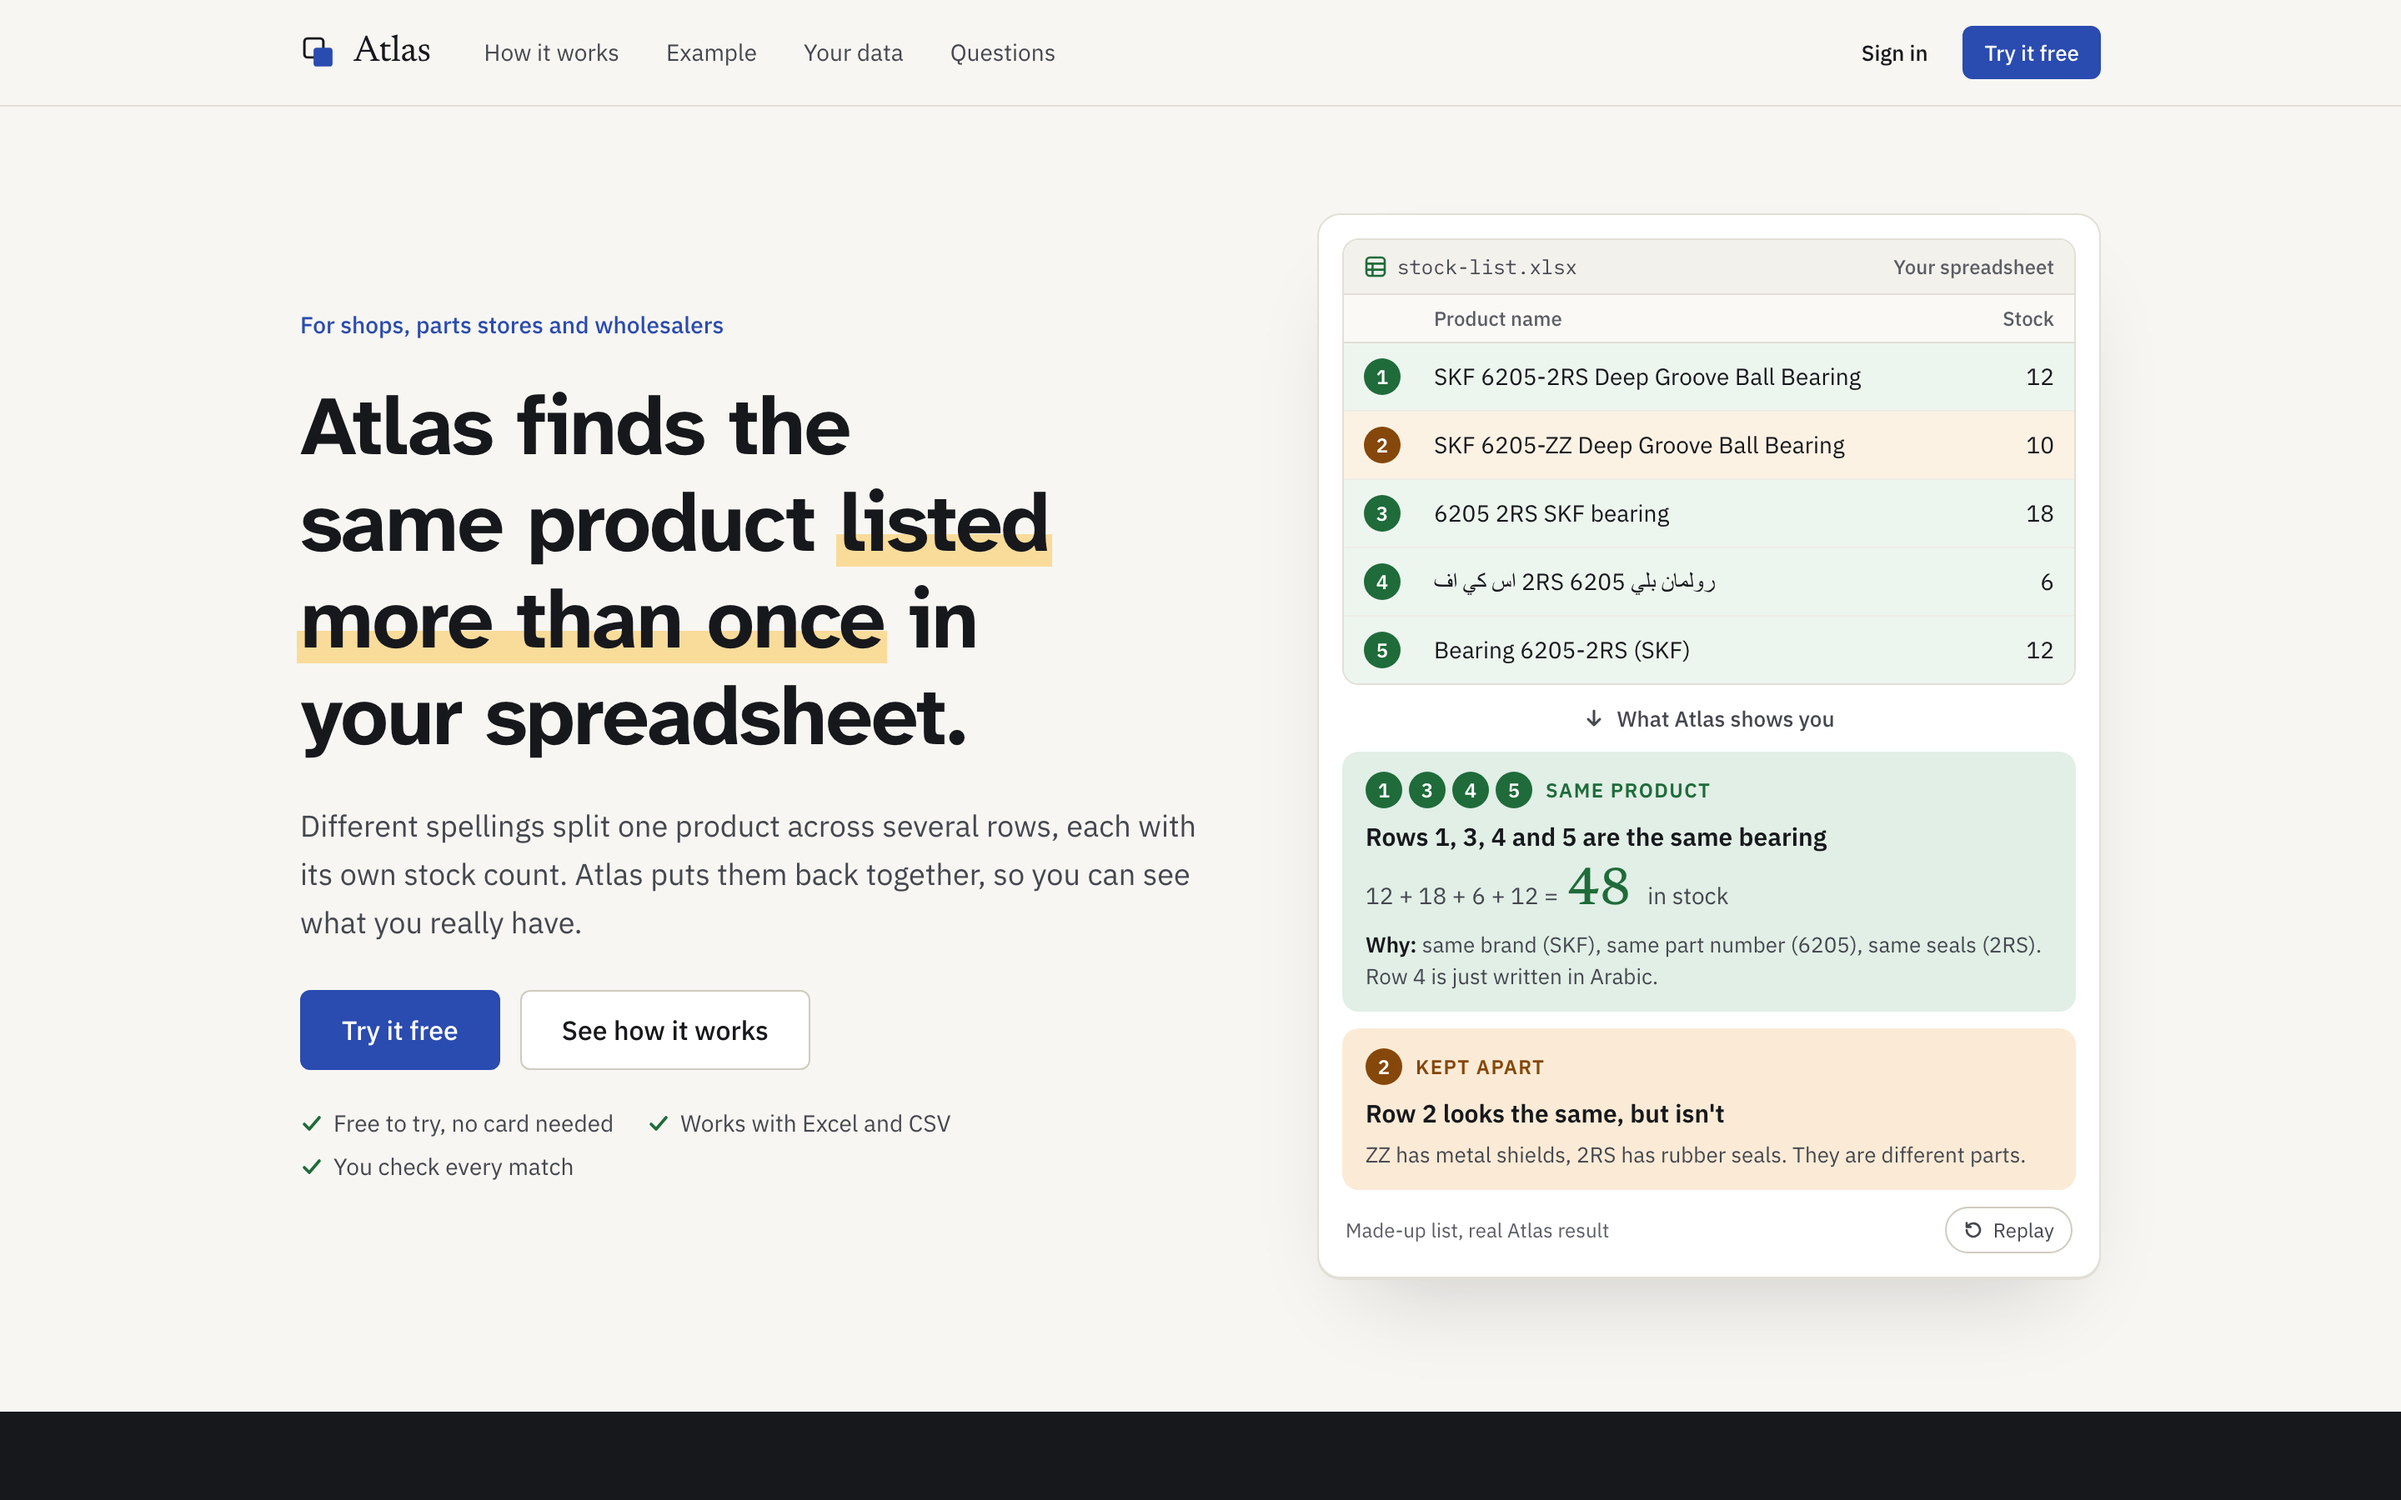
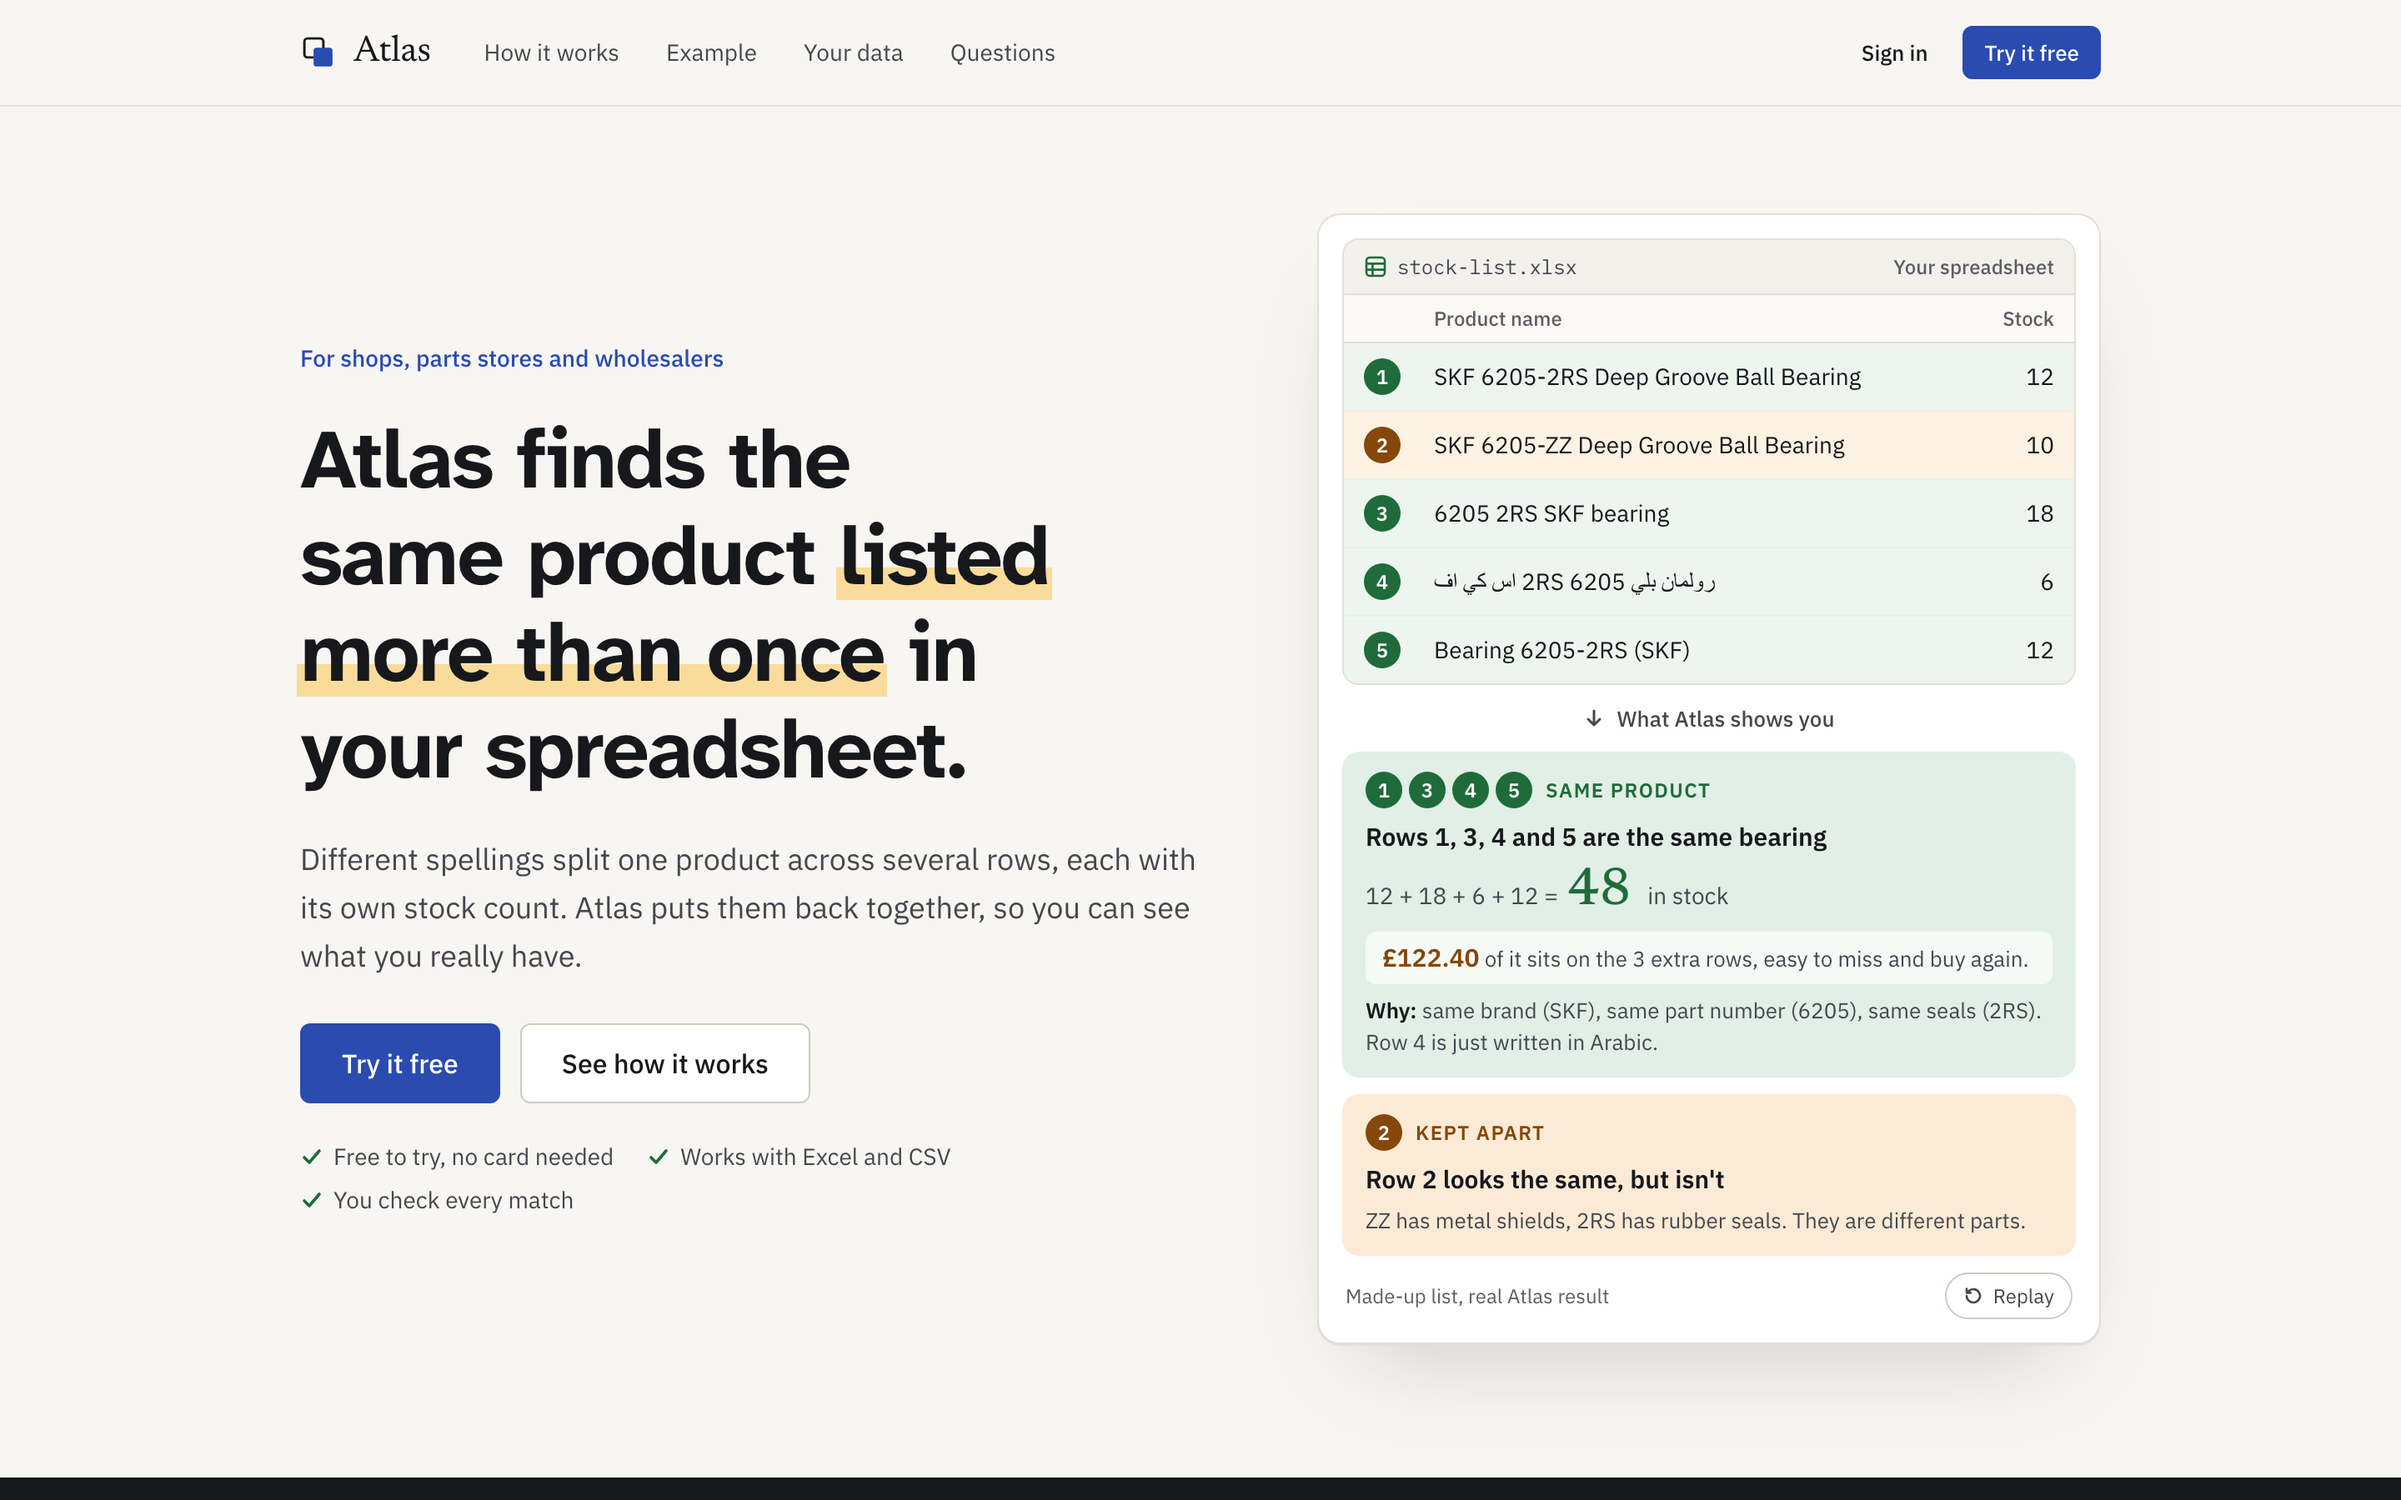
Show the money on the landing page
- The opening example now says what the duplicate stock is worth:
  "£122.40 of it sits on the 3 extra rows, easy to miss and buy again",
  the same measure Atlas reports for a real file.
- A "What could it be costing you?" estimator in the costs section:
  products, stock value and share of duplicate rows give a rough
  figure, with the working shown and a cautious 5% default.
- Clearer money wording in the full example and the closing line.

diff --git a/web/app/globals.css b/web/app/globals.css
@@ -243,7 +243,7 @@ table.grid .right { text-align: right; }
 /* The example beside the headline. The markup is the finished result; the
    animations (all under .aha-play) start from "before" and end on it, so
    reduced motion simply switches them off. Timeline: rows scanned 0.5s,
-   rows marked 1.6s, first answer 2.3s, second answer 3.3s. */
+   rows marked 1.6s, first answer 2.3s, its money 3.1s, second answer 3.6s. */
 @property --aha-n { syntax: "<integer>"; inherits: false; initial-value: 0; }
 
 .aha {
@@ -297,6 +297,8 @@ table.grid .right { text-align: right; }
   font-family: var(--font-serif), Georgia, serif; font-size: 32px; line-height: 36px; font-weight: 500; color: var(--ok);
 }
 .aha-count::after { content: counter(aha-n); }
+.aha-money { margin: 2px 0; padding: 6px 10px; border-radius: 6px; background: rgba(255, 255, 255, 0.65); font-size: 13px; line-height: 19px; color: var(--ink-2); }
+.aha-money strong { font-size: 15px; font-weight: 700; color: var(--warn); }
 .aha-why { font-size: 13px; line-height: 19px; color: var(--ink-2); }
 .aha-why b { color: var(--ink); font-weight: 600; }
 
@@ -316,8 +318,9 @@ table.grid .right { text-align: right; }
 .aha-play .aha-done { animation: aha-appear 0.3s ease 1.6s both; }
 .aha-play .aha-card-same { animation: aha-rise 0.5s cubic-bezier(0.2, 0.7, 0.2, 1) 2.3s both; }
 .aha-play .aha-count { animation: aha-count 0.9s cubic-bezier(0.2, 0.7, 0.2, 1) 2.35s both; }
-.aha-play .aha-card-other { animation: aha-rise 0.5s cubic-bezier(0.2, 0.7, 0.2, 1) 3.3s both; }
-.aha-play .aha-replay { animation: aha-appear 0.3s ease 3.8s both; }
+.aha-play .aha-money { animation: aha-rise 0.45s cubic-bezier(0.2, 0.7, 0.2, 1) 3.1s both; }
+.aha-play .aha-card-other { animation: aha-rise 0.5s cubic-bezier(0.2, 0.7, 0.2, 1) 3.6s both; }
+.aha-play .aha-replay { animation: aha-appear 0.3s ease 4.1s both; }
 .aha-wait .aha-play, .aha-wait .aha-play * { animation-play-state: paused !important; }
 @media (max-width: 1023px) {
   .aha-sm .aha-play, .aha-sm .aha-play * { animation-play-state: paused !important; }
@@ -343,6 +346,29 @@ table.grid .right { text-align: right; }
 .lp-costs > div { display: flex; flex-direction: column; gap: 10px; }
 .lp-costs p { color: #bab8b0; }
 .lp-num { font-size: 22px; color: #8fa6e8; }
+
+/* "What could it be costing you?" estimator, a light card on the dark band */
+.lp-calc { margin-top: 48px; display: grid; grid-template-columns: minmax(0, 1fr) minmax(0, 1fr); border-radius: 14px; overflow: hidden; background: var(--surface); color: var(--ink); }
+.lp-calc-inputs { display: flex; flex-direction: column; gap: 18px; padding: 32px; }
+.lp-calc-inputs h3 { font-size: 22px; line-height: 28px; }
+.lp-field { display: flex; flex-direction: column; gap: 6px; font-size: 14px; line-height: 20px; font-weight: 500; color: var(--ink-2); }
+.lp-field-row { display: flex; justify-content: space-between; align-items: baseline; gap: 12px; }
+.lp-field-row output { font-size: 16px; font-weight: 600; color: var(--ink); }
+.lp-field input[type="text"] {
+  width: 100%; height: 46px; padding: 0 14px; border: 1px solid var(--line-strong); border-radius: var(--radius-control);
+  background: var(--surface); font: inherit; font-size: 17px; font-weight: 500; color: var(--ink); font-variant-numeric: tabular-nums;
+}
+.lp-field input[type="text"]:focus { outline: 2px solid var(--accent); outline-offset: 0; border-color: var(--accent); }
+.lp-money-input { position: relative; display: block; }
+.lp-money-input > span { position: absolute; left: 14px; top: 50%; transform: translateY(-50%); font-size: 17px; color: var(--ink-3); pointer-events: none; }
+.lp-money-input input[type="text"] { padding-left: 30px; }
+.lp-field input[type="range"] { width: 100%; height: 28px; margin: 0; accent-color: var(--accent); cursor: pointer; }
+.lp-calc-note { font-size: 13px; line-height: 19px; color: var(--ink-3); }
+.lp-calc-result { display: flex; flex-direction: column; justify-content: center; align-items: flex-start; gap: 10px; padding: 32px; background: var(--warn-tint); }
+.lp-calc-big { font-size: 60px; line-height: 64px; color: var(--ink); letter-spacing: -0.02em; }
+.lp-calc-result > p { font-size: 17px; line-height: 26px; color: var(--ink); max-width: 420px; }
+.lp-calc-result .lp-calc-sum { font-size: 13px; line-height: 18px; color: var(--ink-3); }
+.lp-calc-result .lp-calc-next { font-size: 14px; line-height: 20px; color: var(--ink-2); margin-top: 6px; }
 
 .lp-section { padding-top: 104px; display: flex; flex-direction: column; gap: 40px; scroll-margin-top: 72px; }
 .lp-section-head { display: flex; flex-direction: column; gap: 12px; }
@@ -507,6 +533,9 @@ table.grid .right { text-align: right; }
   .aha-table .aha-stock { width: 50px; }
   .lp-band { padding: 48px 0; }
   .lp-band-title { font-size: 28px; line-height: 34px; margin-bottom: 28px; }
+  .lp-calc { grid-template-columns: minmax(0, 1fr); margin-top: 36px; }
+  .lp-calc-inputs, .lp-calc-result { padding: 24px 20px; }
+  .lp-calc-big { font-size: 46px; line-height: 50px; }
   .lp-section { padding-top: 72px; gap: 28px; }
   .lp-section-head h2 { font-size: 30px; line-height: 36px; }
   .lp-care { grid-template-columns: minmax(0, 1fr); }

diff --git a/web/components/landing/Estimate.tsx b/web/components/landing/Estimate.tsx
@@ -1,0 +1,99 @@
+"use client";
+
+import { useId, useState, type ReactNode } from "react";
+
+// A rough estimate from the visitor's own numbers: the stock value sitting on
+// duplicate rows, which is what Atlas measures in a real file ("value on
+// duplicate lines"). Duplicate rows are assumed to hold an average share of
+// the stock, so the value is simply total stock value x the duplicate share.
+// The default share is cautious on purpose: industry reports on parts lists
+// often find 10 to 20%, and an estimate that oversells would cost trust.
+
+const DEFAULTS = { products: 5000, value: 200000, share: 5 };
+
+const toNumber = (text: string) => {
+  const n = Number(text.replace(/[^0-9.]/g, ""));
+  return Number.isFinite(n) ? n : 0;
+};
+const whole = new Intl.NumberFormat("en-GB", { maximumFractionDigits: 0 });
+const pounds = new Intl.NumberFormat("en-GB", { style: "currency", currency: "GBP", maximumFractionDigits: 0 });
+
+export default function Estimate({ cta }: { cta: ReactNode }) {
+  const id = useId();
+  const [products, setProducts] = useState(whole.format(DEFAULTS.products));
+  const [value, setValue] = useState(whole.format(DEFAULTS.value));
+  const [share, setShare] = useState(DEFAULTS.share);
+
+  const rows = Math.round((toNumber(products) * share) / 100);
+  const atRisk = (toNumber(value) * share) / 100;
+  const tidy = (text: string) => (text.trim() ? whole.format(toNumber(text)) : "");
+
+  return (
+    <div className="lp-calc">
+      <div className="lp-calc-inputs">
+        <h3>What could it be costing you?</h3>
+        <label className="lp-field" htmlFor={`${id}-products`}>
+          Products in your list
+          <input
+            id={`${id}-products`}
+            type="text"
+            inputMode="numeric"
+            autoComplete="off"
+            value={products}
+            onChange={(e) => setProducts(e.target.value)}
+            onBlur={(e) => setProducts(tidy(e.target.value))}
+          />
+        </label>
+        <label className="lp-field" htmlFor={`${id}-value`}>
+          Total value of your stock
+          <span className="lp-money-input">
+            <span aria-hidden="true">£</span>
+            <input
+              id={`${id}-value`}
+              type="text"
+              inputMode="numeric"
+              autoComplete="off"
+              value={value}
+              onChange={(e) => setValue(e.target.value)}
+              onBlur={(e) => setValue(tidy(e.target.value))}
+            />
+          </span>
+        </label>
+        <label className="lp-field" htmlFor={`${id}-share`}>
+          <span className="lp-field-row">
+            Rows that are duplicates{" "}
+            <output htmlFor={`${id}-share`} className="num">
+              {share}%
+            </output>
+          </span>
+          <input
+            id={`${id}-share`}
+            type="range"
+            min={1}
+            max={20}
+            step={1}
+            value={share}
+            aria-valuetext={`${share} percent`}
+            onChange={(e) => setShare(Number(e.target.value))}
+          />
+        </label>
+        <p className="lp-calc-note">
+          We start at a cautious 5%. Industry reports on parts lists often find 10 to 20%.
+        </p>
+      </div>
+
+      <div className="lp-calc-result" aria-live="polite">
+        <span className="lp-calc-big serif num">{pounds.format(atRisk)}</span>
+        <p>
+          of stock could be sitting on about {whole.format(rows)} duplicate {rows === 1 ? "row" : "rows"}, where it is easy
+          to miss and buy again.
+        </p>
+        <p className="lp-calc-sum num">
+          {pounds.format(toNumber(value))} × {share}% = {pounds.format(atRisk)}
+        </p>
+        <p className="lp-calc-next">A rough guess. Upload your list to get the real figure.</p>
+        {cta}
+      </div>
+    </div>
+  );
+}

diff --git a/web/components/landing/Aha.tsx b/web/components/landing/Aha.tsx
@@ -2,7 +2,7 @@
 
 import { useEffect, useRef, useState, type CSSProperties } from "react";
 
-import { heroRows } from "./sample";
+import { duplicateRows, duplicateValue, groups, heroRows, money } from "./sample";
 
 // The hero's example: five rows of a stock list, then what Atlas makes of them.
 // The animation is plain CSS (globals.css, "aha") and ends on the finished
@@ -13,6 +13,9 @@ import { heroRows } from "./sample";
 // motion shows the result straight away.
 
 const same = heroRows.filter((h) => h.same);
+// The hero's rows are the bearing group from the full example, so the money
+// figure matches it: stock on the rows other than the one Atlas keeps.
+const bearing = groups[0];
 const other = heroRows.find((h) => !h.same)!;
 const total = same.reduce((sum, h) => sum + h.row.stock, 0);
 const rowList = `${same
@@ -149,6 +152,10 @@ export default function Aha() {
               <strong className="aha-count num" aria-hidden="true" />
               <span className="visually-hidden">{total}</span>
               <span>in stock</span>
+            </p>
+            <p className="aha-money">
+              <strong className="num">{money(duplicateValue(bearing))}</strong> of it sits on the {duplicateRows(bearing).length} extra
+              rows, easy to miss and buy again.
             </p>
             <p className="aha-why">
               <b>Why:</b> same brand (SKF), same part number (6205), same seals (2RS). Row 4 is just written in Arabic.

diff --git a/web/app/page.tsx b/web/app/page.tsx
@@ -3,6 +3,7 @@ import Link from "next/link";
 
 import Aha from "@/components/landing/Aha";
 import Demo from "@/components/landing/Demo";
+import Estimate from "@/components/landing/Estimate";
 import SmoothScroll from "@/components/landing/SmoothScroll";
 import { Logo } from "@/components/ui";
 
@@ -121,6 +122,7 @@ export default function Home() {
                 <p>Staff and customers see several versions of one item and have to guess which one is right.</p>
               </div>
             </div>
+            <Estimate cta={<Start />} />
           </div>
         </section>
 
@@ -362,7 +364,7 @@ export default function Home() {
           <div className="lp-final">
             <div>
               <h2 className="display">See the duplicates in your own spreadsheet.</h2>
-              <p>Upload a file, check what Atlas finds, download a clean copy. Free to try, no card needed.</p>
+              <p>Upload a file to see which rows are the same, the stock you really have and what it is worth. Free to try, no card needed.</p>
             </div>
             <Start className="btn lp-btn-light" />
           </div>

diff --git a/web/components/landing/Demo.tsx b/web/components/landing/Demo.tsx
@@ -51,7 +51,7 @@ export default function Demo() {
       <div className="lp-figures">
         <Figure value={String(totals.duplicateLines)} label="extra rows for products already listed" />
         <Figure value={String(totals.unitsOnDuplicates)} label="units of stock sitting on those rows" />
-        <Figure value={money(totals.valueOnDuplicates)} label="of stock hidden on those rows" />
+        <Figure value={money(totals.valueOnDuplicates)} label="of stock on those rows, easy to buy again" />
       </div>
 
       <div className="lp-tabs" role="tablist" aria-label="Example results" onKeyDown={onKey}>
